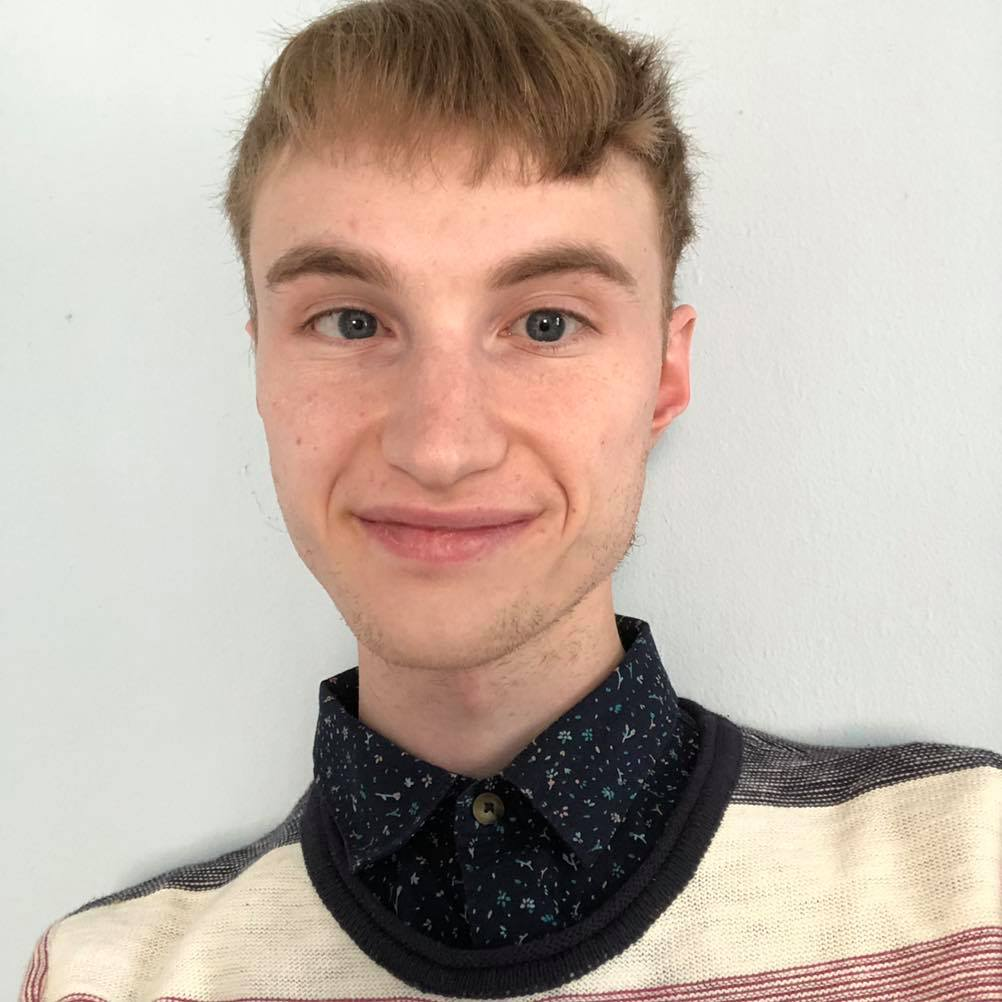
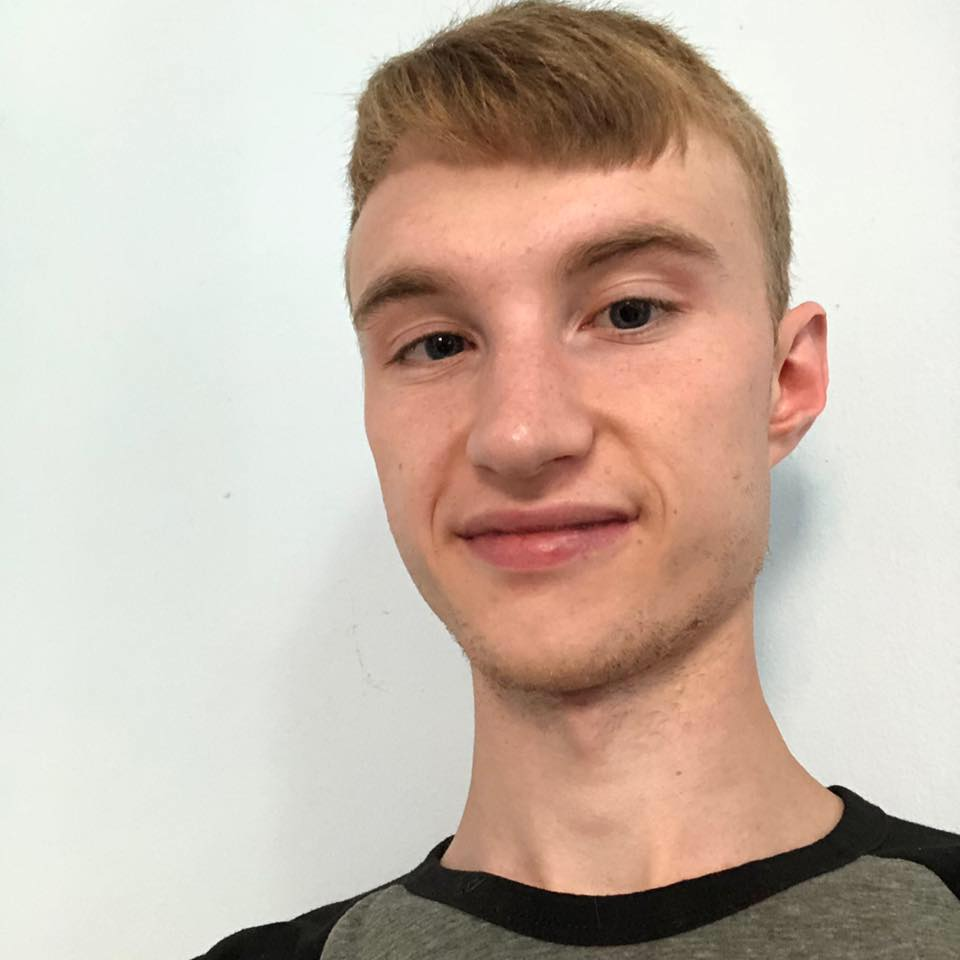
Reformat CSS & change portrait

diff --git a/index.html b/index.html
@@ -40,9 +40,9 @@
       <div class="panel-body">
         <div id="education">
         <ul>
-          <li><span class="high-school">Ballard High School 2010-2014</span></li>
-          <li><span class="college">Seattle Central College 2014-2017</span></li>
-          <li><span class="epicodus">Epicodus 2019-present</span></li>
+          <li>Ballard High School 2010-2014</li>
+          <li>Seattle Central College 2014-2017</li>
+          <li><span class="epicodus">Epicodus 2019-present</li>
         </ul>
       </div>
     </div>
@@ -51,16 +51,16 @@
      <div class="panel-header">My Projects</div>
      <div class="panel-body">
       <ol>
-        <li><a href= "https://github.com/jordanHS/cupcake-shop"><span class="cupcake-link">https://github.com/jordanHS/cupcake-shop</span></a></li>
-          <p><span class="description">A page made using CSS for a cupcake shop.</span><p>
-        <li><a ref= "https://github.com/jordanHS/interior-design"><span class="design-link">https://github.com/jordanHS/interior-design</span></a></li>
-          <p><span class="description">A page made for an interior decorator using CSS.</span></p>
-        <li><a href="https://github.com/jordanHS/animal-shelter"><span class="shelter-link">https://github.com/jordanHS/animal-shelter</span></a></li>
-          <p><span class="description">A page for an animal shelter made using CSS.</span></p>
+        <li><a href= "https://github.com/QuietEvolver/newsflash"><span class="link">Newsflash</span></a></li>
+          <p><span class="description">This application can be used to lookup information on cities.</span><p>
+        <li><a ref= "https://github.com/jordanHS/beep-boop"><span class="link">Beep Boop? </span></a></li>
+          <p><span class="description">An application that counts up to an inputted number and replaces certain numbers with phrases.</span></p>
+        <li><a href="https://github.com/jordanHS/pizza-order"><span class="link">Pizza Order Form</span></a></li>
+          <p><span class="description">A form that calculates the cost of a pizza based on the size and amount of toppings.</span></p>
         </ol>
       </div>
-      </div>
     </div>
+  </div>
   </div>
   </body>
 </html>

diff --git a/css/styles.css b/css/styles.css
@@ -8,29 +8,15 @@ h1 {
   background-color: #73d184;
   color: #1548ad;
 }
-.about-me {
-  font-family: serif;
-  font-size: 64px;
-  color: #a10505;
-}
-.high-school {
+
+
+#education {
   text-decoration: underline;
-  font-size: 20px;
+  font-size: 28px;
   font-family: serif;
   color: #a10505
 }
-.college {
-  text-decoration: underline;
-  font-size: 20px;
-  font-family: serif;
-  color: #a10505
-}
-.epicodus {
-  text-decoration: underline;
-  font-size: 20px;
-  font-family: serif;
-  color: #a10505
-}
+
 body {
   background-color: #d95776;
 }
@@ -38,7 +24,7 @@ body {
   background-color: #9dafeb;
 }
 #intro {
-  font-size: 20px;
+  font-size: 24px;
   color: #a10505;
   font-family: serif;
 }
@@ -52,34 +38,21 @@ font-size: 20px;
 font-family: serif;
 color: #a10505
 }
-.subtitle-two {
-  font-size: 64px;
-  font-family: serif;
-  color: #a10505
-}
 
 #hobbies {
-  font-size: 20px;
+  font-size: 24px;
   font-family: serif;
   color: #a10505
 }
 
-.projects{
-  font-family: serif;
-  font-size: 64px;
-  color: #a10505
+.link {
+  font-size: 20px;
 }
-.cupcake-link {
-  font-size: 18px;
-}
-.design-link {
-  font-size: 18px;
-}
-.shelter-link {
-  font-size: 18px
-}
+
 .description {
-  color: #a10505
+  color: #a10505;
+  font-size: 16px
+
 }
 p {
   font-size: 16px
@@ -104,5 +77,5 @@ padding-bottom: 50px;
   text-align: center;
   color: #5776D9;
   height: px;
-  font-size: 24px;
+  font-size: 32px;
 }
